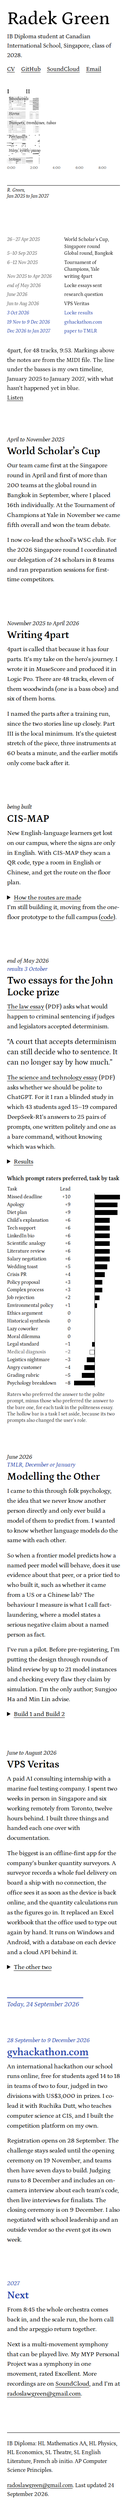
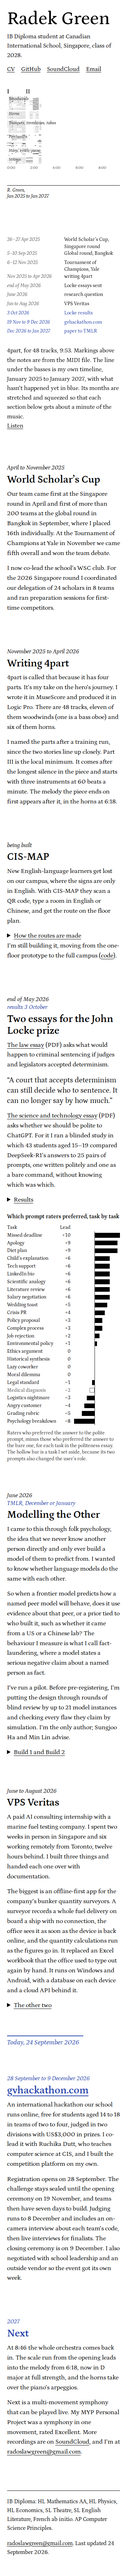
Space the sections evenly through the piece and warp the timeline to match
Each section now gets about a minute of 4part, snapped to a bar line,
and the timeline under the score is stretched so each section's date
sits at its place in the music. Scrolling down never pulls the music
backwards. Adds a date-to-position tool for future edits.

Changed region(s): [[0.0611, 0.0, 0.9472, 0.9966]]

diff --git a/index.html b/index.html
@@ -1,5 +1,5 @@
 <!doctype html>
-<html lang="en" style="--now:83.07%">
+<html lang="en" style="--now:69.02%">
 <head>
 <meta charset="utf-8">
 <meta name="viewport" content="width=device-width, initial-scale=1">
@@ -69,6 +69,7 @@ header p { margin: 0.6rem 0 0; max-width: 40rem; }
 .groups span { position: absolute; right: calc(100% + 0.8rem); width: 8.4rem; display: flex; align-items: center; justify-content: flex-end; text-align: right; font-style: italic; font-size: 0.8rem; line-height: 1.15; border-right: 2px solid #000; padding-right: 0.5rem; box-sizing: border-box; }
 .ruler { height: 1.3rem; font-size: 0.7rem; color: #555; }
 .ruler span { position: absolute; top: 0.2rem; }
+.ruler.months .hide { visibility: hidden; }
 .ruler b { font-weight: 600; color: #000; margin-left: 0.2rem; }
 
 .staff { margin-top: 1.1rem; border-top: 1px solid #000; }
@@ -157,7 +158,6 @@ footer { border-top: 1px solid #000; margin-top: 2rem; padding-top: 1rem; font-s
 @keyframes drain { to { transform: scaleX(0); } }
 @media (max-width: 600px) { .ask { left: 1.1rem; right: 1.1rem; bottom: 1rem; max-width: none; } }
 .evlist { display: none; }
-@media (max-width: 1350px) { .ruler.months span:nth-child(12n+2) { visibility: hidden; } }
 
 @media (prefers-reduced-motion: reduce) {
   .score *, .score .system .base { animation: none !important; }
@@ -226,20 +226,20 @@ footer { border-top: 1px solid #000; margin-top: 2rem; padding-top: 1rem; font-s
   <div class="row ruler" aria-hidden="true"><span style="left:0.00%">0:00</span><span style="left:20.23%">2:00</span><span style="left:40.45%">4:00</span><span style="left:60.68%">6:00</span><span style="left:80.90%">8:00</span></div>
   <div class="row staff">
     <span class="staffname">R. Green,<br>Jan 2025 to Jan 2027</span>
-    <div class="lane"><span class="dot " style="left:15.33%"></span><span class="lab" style="left:15.93%">WSC, Singapore</span><span class="dot " style="left:32.53%"></span><span class="lab" style="left:33.13%">Bangkok</span><span class="dot " style="left:40.67%"></span><span class="lab" style="left:41.27%">Yale</span><span class="dot " style="left:67.87%"></span><span class="tie" style="left:67.87%;width:16.40%"></span><span class="dot open" style="left:84.27%"></span><span class="lab end" style="right:32.73%">Locke essays sent</span><span class="lab plan" style="left:84.87%">results 3 Oct</span></div><div class="lane"><span class="span" style="left:40.00%;width:23.87%"></span><span class="lab" style="left:40.00%">writing 4part</span><span class="dot " style="left:68.00%"></span><span class="tie" style="left:68.00%;width:24.00%"></span><span class="span hatch plan" style="left:92.00%;width:8.00%"></span><span class="lab" style="left:72.10%">research question</span><span class="lab end plan" style="right:0.60%">to TMLR</span></div><div class="lane"><span class="span" style="left:68.00%;width:12.00%"></span><span class="lab end" style="right:32.60%">VPS Veritas</span><span class="dot open" style="left:83.60%"></span><span class="span plan" style="left:90.40%;width:2.67%"></span><span class="lab end plan" style="right:10.20%">hackathon</span></div>
+    <div class="lane"><span class="dot " style="left:9.86%"></span><span class="lab" style="left:10.46%">World Scholar’s Cup</span><span class="dot " style="left:16.63%"></span><span class="dot " style="left:20.04%"></span><span class="dot " style="left:39.64%"></span><span class="tie" style="left:39.64%;width:30.98%"></span><span class="dot open" style="left:70.62%"></span><span class="lab end" style="right:60.96%">Locke essays sent</span><span class="lab plan" style="left:71.22%">results 3 Oct</span></div><div class="lane"><span class="span" style="left:19.57%;width:16.98%"></span><span class="lab" style="left:19.93%">writing 4part</span><span class="dot " style="left:49.30%"></span><span class="tie" style="left:49.30%;width:32.20%"></span><span class="span hatch plan" style="left:81.50%;width:18.50%"></span><span class="lab" style="left:55.63%">research question</span><span class="lab end plan" style="right:0.60%">to TMLR</span></div><div class="lane"><span class="span" style="left:49.30%;width:16.35%"></span><span class="lab end" style="right:51.30%">VPS Veritas</span><span class="dot open" style="left:69.73%"></span><span class="span plan" style="left:78.75%;width:4.58%"></span><span class="lab end plan" style="right:21.85%">hackathon</span></div>
     <div class="today"><span>today</span></div>
   </div>
-  <div class="row ruler months" aria-hidden="true"><span style="left:0.00%">J<b>2025</b></span><span style="left:4.00%">F</span><span style="left:8.00%">M</span><span style="left:12.00%">A</span><span style="left:16.00%">M</span><span style="left:20.00%">J</span><span style="left:24.00%">J</span><span style="left:28.00%">A</span><span style="left:32.00%">S</span><span style="left:36.00%">O</span><span style="left:40.00%">N</span><span style="left:44.00%">D</span><span style="left:48.00%">J<b>2026</b></span><span style="left:52.00%">F</span><span style="left:56.00%">M</span><span style="left:60.00%">A</span><span style="left:64.00%">M</span><span style="left:68.00%">J</span><span style="left:72.00%">J</span><span style="left:76.00%">A</span><span style="left:80.00%">S</span><span style="left:84.00%">O</span><span style="left:88.00%">N</span><span style="left:92.00%">D</span><span style="left:96.00%">J<b>2027</b></span></div>
+  <div class="row ruler months" aria-hidden="true"><span style="left:0.00%">J<b>2025</b></span><span style="left:2.57%" class="hide">F</span><span style="left:5.14%">M</span><span style="left:7.72%">A</span><span style="left:10.12%">M</span><span style="left:11.70%" class="hide">J</span><span style="left:13.27%">J</span><span style="left:14.85%" class="hide">A</span><span style="left:16.42%">S</span><span style="left:17.99%" class="hide">O</span><span style="left:19.57%">N</span><span style="left:22.41%">D</span><span style="left:25.26%">J<b>2026</b></span><span style="left:28.10%" class="hide">F</span><span style="left:30.95%">M</span><span style="left:33.79%">A</span><span style="left:36.64%">M</span><span style="left:49.30%">J</span><span style="left:55.85%">J</span><span style="left:61.25%">A</span><span style="left:65.65%">S</span><span style="left:70.26%">O</span><span style="left:75.57%">N</span><span style="left:81.50%">D</span><span style="left:88.36%">J<b>2027</b></span></div>
   <ol class="evlist"><li><span>26–27 Apr 2025</span> World Scholar’s Cup, Singapore round</li><li><span>5–10 Sep 2025</span> Global round, Bangkok</li><li><span>6–12 Nov 2025</span> Tournament of Champions, Yale</li><li><span>Nov 2025 to Apr 2026</span> writing 4part</li><li><span>end of May 2026</span> Locke essays sent</li><li><span>June 2026</span> research question</li><li><span>Jun to Aug 2026</span> VPS Veritas</li><li class="plan"><span>3 Oct 2026</span> Locke results</li><li class="plan"><span>19 Nov to 9 Dec 2026</span> gvhackathon.com</li><li class="plan"><span>Dec 2026 to Jan 2027</span> paper to TMLR</li></ol>
   <div class="head"></div>
-  <figcaption id="score-cap">4part, for 48 tracks, 9:53. Markings above the notes are from the MIDI file. The line under the basses is my own timeline, January 2025 to January 2027, with what hasn’t happened yet in blue.<br><a class="play" href="/static/audio/4part.m4a">Listen</a></figcaption>
+  <figcaption id="score-cap">4part, for 48 tracks, 9:53. Markings above the notes are from the MIDI file. The line under the basses is my own timeline, January 2025 to January 2027, with what hasn’t happened yet in blue. Its months are stretched and squeezed so that each section below gets about a minute of the music.<br><a class="play" href="/static/audio/4part.m4a">Listen</a></figcaption>
 </figure>
 <div class="pin" role="region" aria-label="Pinned score and timeline">
  <div class="inner">
   <div class="what"><b>Radek Green</b><span id="where">2025</span></div>
   <div class="bar">
    <div class="notes"><img src="/static/score/piece.svg" alt=""></div>
-   <div class="mini"><div class="lane"><span class="dot " style="left:15.33%"></span><span class="lab" style="left:15.93%">WSC, Singapore</span><span class="dot " style="left:32.53%"></span><span class="lab" style="left:33.13%">Bangkok</span><span class="dot " style="left:40.67%"></span><span class="lab" style="left:41.27%">Yale</span><span class="dot " style="left:67.87%"></span><span class="tie" style="left:67.87%;width:16.40%"></span><span class="dot open" style="left:84.27%"></span><span class="lab end" style="right:32.73%">Locke essays sent</span><span class="lab plan" style="left:84.87%">results 3 Oct</span></div><div class="lane"><span class="span" style="left:40.00%;width:23.87%"></span><span class="lab" style="left:40.00%">writing 4part</span><span class="dot " style="left:68.00%"></span><span class="tie" style="left:68.00%;width:24.00%"></span><span class="span hatch plan" style="left:92.00%;width:8.00%"></span><span class="lab" style="left:72.10%">research question</span><span class="lab end plan" style="right:0.60%">to TMLR</span></div><div class="lane"><span class="span" style="left:68.00%;width:12.00%"></span><span class="lab end" style="right:32.60%">VPS Veritas</span><span class="dot open" style="left:83.60%"></span><span class="span plan" style="left:90.40%;width:2.67%"></span><span class="lab end plan" style="right:10.20%">hackathon</span></div><a href="#wsc" style="--l:0;left:calc(15.33% - 8px);width:16px" aria-label="World Scholar’s Cup"></a><a href="#writing" style="--l:1;left:calc(40.00% - 8px);width:16px" aria-label="Writing 4part"></a><a href="#locke" style="--l:0;left:calc(67.87% - 8px);width:16px" aria-label="Two essays for the John Locke prize"></a><a href="#other" style="--l:1;left:calc(68.00% - 8px);width:16px" aria-label="Modelling the Other"></a><a href="#vps" style="--l:2;left:calc(68.00% - 8px);width:16px" aria-label="VPS Veritas"></a><a href="#hack" style="--l:2;left:calc(90.40% - 8px);width:16px" aria-label="gvhackathon.com"></a></div>
+   <div class="mini"><div class="lane"><span class="dot " style="left:9.86%"></span><span class="lab" style="left:10.46%">World Scholar’s Cup</span><span class="dot " style="left:16.63%"></span><span class="dot " style="left:20.04%"></span><span class="dot " style="left:39.64%"></span><span class="tie" style="left:39.64%;width:30.98%"></span><span class="dot open" style="left:70.62%"></span><span class="lab end" style="right:60.96%">Locke essays sent</span><span class="lab plan" style="left:71.22%">results 3 Oct</span></div><div class="lane"><span class="span" style="left:19.57%;width:16.98%"></span><span class="lab" style="left:19.93%">writing 4part</span><span class="dot " style="left:49.30%"></span><span class="tie" style="left:49.30%;width:32.20%"></span><span class="span hatch plan" style="left:81.50%;width:18.50%"></span><span class="lab" style="left:55.63%">research question</span><span class="lab end plan" style="right:0.60%">to TMLR</span></div><div class="lane"><span class="span" style="left:49.30%;width:16.35%"></span><span class="lab end" style="right:51.30%">VPS Veritas</span><span class="dot open" style="left:69.73%"></span><span class="span plan" style="left:78.75%;width:4.58%"></span><span class="lab end plan" style="right:21.85%">hackathon</span></div><a href="#wsc" style="--l:0;left:calc(9.86% - 8px);width:16px" aria-label="World Scholar’s Cup"></a><a href="#writing" style="--l:1;left:calc(19.57% - 8px);width:16px" aria-label="Writing 4part"></a><a href="#locke" style="--l:0;left:calc(39.64% - 8px);width:16px" aria-label="Two essays for the John Locke prize"></a><a href="#other" style="--l:1;left:calc(49.30% - 8px);width:16px" aria-label="Modelling the Other"></a><a href="#vps" style="--l:2;left:calc(49.30% - 8px);width:16px" aria-label="VPS Veritas"></a><a href="#hack" style="--l:2;left:calc(78.75% - 8px);width:16px" aria-label="gvhackathon.com"></a></div>
    <div class="ph"></div><div class="today2"></div>
    <div class="ctl"><button type="button" class="snd" >Sound on scroll: off</button><button type="button" class="lis">Listen</button></div>
   </div>
@@ -247,26 +247,26 @@ footer { border-top: 1px solid #000; margin-top: 2rem; padding-top: 1rem; font-s
 </div>
 
 <div class="journey">
-<section class="station " id="wsc" data-f="0.1533" aria-labelledby="wsc-h">
+<section class="station " id="wsc" data-f="0.0986" aria-labelledby="wsc-h">
   <p class="when">April to November 2025</p>
   <div><h2 id="wsc-h">World Scholar’s Cup</h2>
   <p>Our team came first at the Singapore round in April and first of more than 200 teams at the global round in Bangkok in September, where I placed 16th individually. At the Tournament of Champions at Yale in November we came fifth overall and won the team debate.</p>
   <p>I now co-lead the school’s WSC club. For the 2026 Singapore round I coordinated our delegation of 24 scholars in 8 teams and ran preparation sessions for first-time competitors.</p></div>
 </section>
-<section class="station " id="writing" data-f="0.4000" aria-labelledby="writing-h">
+<section class="station " id="writing" data-f="0.1957" aria-labelledby="writing-h">
   <p class="when">November 2025 to April 2026</p>
   <div><h2 id="writing-h">Writing 4part</h2>
   <p>4part is called that because it has four parts. It’s my take on the hero’s journey. I wrote it in MuseScore and produced it in Logic Pro. There are 48 tracks, eleven of them woodwinds (one is a bass oboe) and six of them horns.</p>
   <p>I named the parts after a training run, since the two stories line up closely. Part III is the local minimum. It comes after the longest silence in the piece and starts with three instruments at 60 beats a minute. The melody the piece ends on first appears after it, in the horns at 6:18.</p></div>
 </section>
-<section class="station " id="cismap" data-f="" aria-labelledby="cismap-h">
+<section class="station " id="cismap" data-f="0.2968" aria-labelledby="cismap-h">
   <p class="when">being built</p>
   <div><h2 id="cismap-h">CIS-MAP</h2>
   <p>New English-language learners get lost on our campus, where the signs are only in English. With CIS-MAP they scan a QR code, type a room in English or Chinese, and get the route on the floor plan.</p>
   <details><summary>How the routes are made</summary><p>A C++ program precomputes the routes between 53 locations with A* search, using a cost that keeps paths away from walls, then smooths and simplifies them. The results go into a JSON table, so the page does no pathfinding while someone is using it. Room search is fuzzy, with a language model as a fallback, and there is a Three.js prototype of the building in 3D. It started as a Service as Action project, and I presented it to senior school leadership.</p></details>
   <p>I’m still building it, moving from the one-floor prototype to the full campus (<a href="https://github.com/worldwiderad/CIS-MAP-V2">code</a>).</p></div>
 </section>
-<section class="station has-side" id="locke" data-f="0.6787" aria-labelledby="locke-h">
+<section class="station has-side" id="locke" data-f="0.3939" aria-labelledby="locke-h">
   <p class="when">end of May 2026<br><span class="plan">results 3 October</span></p>
   <div><h2 id="locke-h">Two essays for the John Locke prize</h2>
   <p><a href="/static/essays/determinism-and-sentencing.pdf">The law essay</a> (PDF) asks what would happen to criminal sentencing if judges and legislators accepted determinism.</p>
@@ -305,7 +305,7 @@ footer { border-top: 1px solid #000; margin-top: 2rem; padding-top: 1rem; font-s
   </table><figcaption>Raters who preferred the answer to the polite prompt, minus those who preferred the answer to the bare one, for each task in the politeness essay. The hollow bar is a task I set aside, because its two prompts also changed the user’s role.</figcaption></figure></div>
 
 </section>
-<section class="station " id="other" data-f="0.6800" aria-labelledby="other-h">
+<section class="station " id="other" data-f="0.4930" aria-labelledby="other-h">
   <p class="when">June 2026<br><span class="plan">TMLR, December or January</span></p>
   <div><h2 id="other-h">Modelling the Other</h2>
   <p>I came to this through folk psychology, the idea that we never know another person directly and only ever build a model of them to predict from. I wanted to know whether language models do the same with each other.</p>
@@ -313,24 +313,24 @@ footer { border-top: 1px solid #000; margin-top: 2rem; padding-top: 1rem; font-s
   <p>I’ve run a pilot. Before pre-registering, I’m putting the design through rounds of blind review by up to 21 model instances and checking every flaw they claim by simulation. I’m the only author; Sungjoo Ha and Min Lin advise.</p>
   <details><summary>Build 1 and Build 2</summary><p>Build 1 measures what models actually do. Sixteen subject models answer, and two judge models label every response independently. Build 2 shows predictor models a varying number of real responses from a peer, together with an identity label, and asks them to predict its behaviour on a case they haven’t seen. The review rounds stop when one finds nothing that would change what is collected or claimed. I wrote the whole pipeline, from collection across several providers with spend limits to the dual-judge labelling, the prediction runner and the analysis.</p></details></div>
 </section>
-<section class="station " id="vps" data-f="0.7387" aria-labelledby="vps-h">
+<section class="station " id="vps" data-f="0.5891" aria-labelledby="vps-h">
   <p class="when">June to August 2026</p>
   <div><h2 id="vps-h">VPS Veritas</h2>
   <p>A paid AI consulting internship with a marine fuel testing company. I spent two weeks in person in Singapore and six working remotely from Toronto, twelve hours behind. I built three things and handed each one over with documentation.</p>
   <p>The biggest is an offline-first app for the company’s bunker quantity surveyors. A surveyor records a whole fuel delivery on board a ship with no connection, the office sees it as soon as the device is back online, and the quantity calculations run as the figures go in. It replaced an Excel workbook that the office used to type out again by hand. It runs on Windows and Android, with a database on each device and a cloud API behind it.</p>
   <details><summary>The other two</summary><p>A sales tool the commercial team uses in client meetings, with seven savings calculators tested against the spreadsheets they came from and a generator that writes the full proposal as a Word document. And an analysis pipeline in Python that costed the bids in a freight tender and produced the recommendation.</p></details></div>
 </section>
-<section class="station here" id="today" data-f="0.8307" aria-labelledby="today-h">
+<section class="station here" id="today" data-f="0.6902" aria-labelledby="today-h">
   <p class="when"></p>
   <div><h2 id="today-h">Today, 24 September 2026</h2></div>
 </section>
-<section class="station ahead" id="hack" data-f="0.9040" aria-labelledby="hack-h">
+<section class="station ahead" id="hack" data-f="0.7875" aria-labelledby="hack-h">
   <p class="when">28 September to 9 December 2026</p>
   <div><h2 id="hack-h"><a href="https://gvhackathon.com">gvhackathon.com</a></h2>
   <p>An international hackathon our school runs online, free for students aged 14 to 18 in teams of two to four, judged in two divisions with US$3,000 in prizes. I co-lead it with Ruchika Dutt, who teaches computer science at CIS, and I built the competition platform on my own.</p>
   <p>Registration opens on 28 September. The challenge stays sealed until the opening ceremony on 19 November, and teams then have seven days to build. Judging runs to 8 December and includes an on-camera interview about each team’s code, then live interviews for finalists. The closing ceremony is on 9 December. I also negotiated with school leadership and an outside vendor so the event got its own week.</p></div>
 </section>
-<section class="station ahead" id="coda" data-f="1.0000" data-t="525.5" aria-labelledby="coda-h">
+<section class="station ahead" id="coda" data-f="0.8836" aria-labelledby="coda-h">
   <p class="when">2027</p>
   <div><h2 id="coda-h">Next</h2>
   <p>At 8:46 the whole orchestra comes back in. The scale run from the opening leads into the melody from 6:18, now in D major at full strength, and the horns take over the piano’s arpeggios. <button hidden class="hear" type="button" data-from="525.5">Hear the ending</button></p>
@@ -471,9 +471,10 @@ function mark(el) { for (var i = 0; i < marks.length; i++) if (marks[i].el === e
 function settle() {
   waitingSince = 0;
   if (!scrollMode || !current || current === lastStation) return;
+  var m = mark(current), from = lastStation ? marks.indexOf(mark(lastStation)) : -1;
   lastStation = current;
-  var m = mark(current), t = state === 'playing' ? active.a.currentTime : -1;
-  if (t >= m.t - 1.5 && t < m.end) return;
+  var t = state === 'playing' ? active.a.currentTime : -1;
+  if (t >= m.t - 1.5 && (marks.indexOf(m) > from || t < m.end)) return;
   go(m.t, state === 'playing' ? 0.6 : 0);
 }
 var current = null, ticking = false;

diff --git a/_planning/tools/timeline.py b/_planning/tools/timeline.py
@@ -1,0 +1,23 @@
+"""Where a date sits on the timeline under the score.
+
+The timeline is stretched so that each section of the page gets about a minute of 4part.
+Each section's date is pinned to that section's place in the music (its data-f), and dates
+in between are spaced evenly. Usage:  python3 _planning/tools/timeline.py 2026-10-03
+"""
+import sys, bisect
+LEN = 593.32
+def mo(y, m, d=1): return ((y - 2025) * 12 + (m - 1) + (d - 1) / 30) / 25 * 100
+# (date, seconds into the piece) for each section; keep in step with the data-f values in index.html
+ANCHORS = [((2025, 1, 1), 0), ((2025, 4, 26), 58.5), ((2025, 11, 1), 116.1), ((2026, 5, 30), 233.7),
+           ((2026, 6, 1), 292.5), ((2026, 7, 15), 349.5), ((2026, 9, 24), 409.5), ((2026, 11, 19), 467.25),
+           ((2027, 1, 1), 524.25), ((2027, 2, 1), LEN)]
+A = [(mo(*d), t / LEN * 100) for d, t in ANCHORS]
+def x(y, m, d=1):
+    u = mo(y, m, d); us = [a[0] for a in A]
+    i = max(0, min(len(A) - 2, bisect.bisect_right(us, u) - 1))
+    (u0, x0), (u1, x1) = A[i], A[i + 1]
+    return x0 + (x1 - x0) * (u - u0) / (u1 - u0)
+if __name__ == '__main__':
+    for arg in sys.argv[1:]:
+        y, m, d = map(int, arg.split('-'))
+        print(f'{arg}: left {x(y, m, d):.2f}%')

diff --git a/_planning/UPDATING.md b/_planning/UPDATING.md
@@ -19,13 +19,15 @@ Do not add anything under `/assets/`: the Pages theme writes `/assets/css/style.
 
 ## Moving "today"
 
-The page is fixed at 24 September 2026. To move it to a new date, change three things in `index.html`:
+The timeline under the score is stretched, not to scale: each section of the page is pinned to its own stretch of the music (its `data-f`, the fraction of the way through the piece), and the dates in between are spaced evenly. `_planning/tools/timeline.py` gives the position of any date, for example `python3 _planning/tools/timeline.py 2026-10-03`.
 
-1. `--now` on the `<html>` tag. It is the date's position on the timeline, which runs from 1 January 2025 to 1 February 2027 (25 months):
-   `((year - 2025) * 12 + (month - 1) + (day - 1) / 30) / 25 * 100`, as a percentage.
-   Example: 3 October 2026 is `((1*12) + 9 + 2/30) / 25 * 100 = 84.27%`.
-2. The `#today` station: its `data-f` (the same number divided by 100, e.g. `0.8427`) and its heading "Today, …". Move the whole `<section>` so it sits between the last past item and the first future one.
-3. The footer's "Last updated …". Also update "Last updated" in `cv/index.html`.
+To move "today" to a new date:
+
+1. Set `--now` on the `<html>` tag to that date's position from the tool.
+2. Update the `#today` heading ("Today, …"). Leave the anchors in the tool and the station's `data-f` alone: the today line moves a little along the staff, and the section keeps its place in the music.
+3. Update "Last updated …" in the footer and in `cv/index.html`.
+
+If the new date passes a future item (the Locke result on 3 October, the hackathon), move the `#today` section below that item's section and swap the two `data-f` values, so the sections stay in order through the music.
 
 ## Turning a future item into a past one
 
@@ -41,7 +43,7 @@ In `index.html`, the `#locke` station has `<span class="plan">results 3 October<
 
 ## Adding a timeline item
 
-Positions on the timeline use the same formula as `--now`. A single event is a `<span class="dot" style="left:X%">` with a label `<span class="lab" style="left:X+0.6%">`; a period is `<span class="span" style="left:START%;width:LENGTH%">`. Put it in the lane where it has room, copy it into the pinned bar's `.mini`, and add a line to the phone `<ol class="evlist">`. A new station needs `data-f` (its position divided by 100) and must sit in date order among the other stations.
+Positions on the timeline come from `_planning/tools/timeline.py`. A single event is a `<span class="dot" style="left:X%">` with a label `<span class="lab" style="left:X+0.6%">`; a period is `<span class="span" style="left:START%;width:LENGTH%">`. Put it in the lane where it has room, copy it into the pinned bar's `.mini`, and add a line to the phone `<ol class="evlist">`. A new station needs `data-f` (its position divided by 100) and must sit in date order among the other stations.
 
 ## Checks before pushing
 

diff --git a/_planning/AUDIT.md b/_planning/AUDIT.md
@@ -265,3 +265,16 @@ Radek pointed out that the motif labels were wrong (the "horn call" at 0:50 is n
 The highlight images are regenerated from the matched notes. Checks: axe 0 violations at 360 and 1440; no horizontal scroll; each motif button plays its statement and jumps to its return (tested in Chromium).
 
 Radek confirmed the part boundaries. The 2:51 button is now "horn call′" (the call, varied), and the Part IV theme is "fixed point", matching the ML part names. The finale label sits one line up, right-aligned, so it clears "arpeggio" at every width.
+
+## After launch: sections spaced evenly through the music
+
+Radek found that sound on scroll skipped large parts of the piece and could jump backwards: each section's place in the music came from its date, so the essays and the research (four days apart) shared a spot, "Next" came before the hackathon, and nothing before 1:31 or between 3:57 and 6:43 was reached by a section.
+
+- **The sections are now spaced evenly.** The first minute belongs to the top of the page. After that, each section gets about 58 s, snapped to the nearest bar line: 0:58.5, 1:56, 2:56, 3:54, 4:52.5, 5:49.5, 6:49.5, 7:47, 8:44.
+- **The timeline under the score is warped to match.** Each section's date sits at its place in the music. The months in between stretch or squeeze, and the month ruler shows them unevenly. Month letters that would collide are hidden.
+- **The caption says so.** It now reads: "Its months are stretched and squeezed so that each section below gets about a minute of the music."
+- **The WSC labels are merged.** The three WSC dots are now too close for separate labels, so they share one: "World Scholar's Cup". The phone list still names each round.
+- **The music never jumps backwards on the way down.** If a reader lingers and the music runs ahead, moving down keeps it playing. It jumps only when it is behind the new section, or when the reader scrolls back up past the section's stretch.
+- **Positions come from a tool.** `_planning/tools/timeline.py` gives any date's position, and `UPDATING.md` is revised to use it.
+
+Checks: axe 0 violations; no horizontal scroll at 360, 1201, 1440 and 1920; no overlapping labels on the staff; the lingering test behaves as above.
